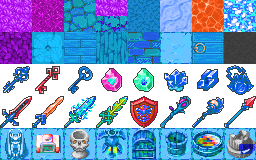
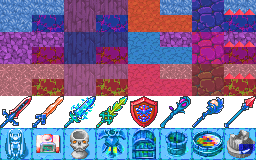
random

diff --git a/GAME1017_Template_W01/PlatformPlayer.cpp b/GAME1017_Template_W01/PlatformPlayer.cpp
@@ -12,7 +12,7 @@
 #include "EventManager.h"
 #include "SoundManager.h"
 
-PlatformPlayer::PlatformPlayer(SDL_Rect s, SDL_FRect d, SDL_Renderer * r, SDL_Texture * t, int sstart, int smin, int smax, int nf)
+PlatformPlayer::PlatformPlayer(SDL_Rect s, SDL_FRect d, SDL_Renderer* r, SDL_Texture* t, int sstart, int smin, int smax, int nf)
 	:Character(s, d, r, t, sstart, smin, smax, nf)
 {
 	m_grounded = true;
@@ -39,39 +39,28 @@ PlatformPlayer::~PlatformPlayer()
 
 void PlatformPlayer::Update()
 {
-	// Check collision
-	if (COMA::PlayerCollisionLeft({ (int)m_dst.x, (int)m_dst.y, (int)96, (int)96 }, -GetAccelX(), 0))
-		m_dst.x -= (int)m_velX;
-	if (COMA::PlayerCollisionRight({ (int)m_dst.x, (int)m_dst.y, (int)96, (int)96 }, GetAccelX(), 0))
-		m_dst.x -= (int)m_velX;
-	if (COMA::PlayerCollisionTop({ (int)m_dst.x, (int)m_dst.y, (int)96, (int)96 }, -GetAccelY(), 0))
-		m_dst.y -= (int)m_velY;
-	 //Do X axis first.
+	//Do X axis first.
 	m_velX += m_accelX;
-	m_velX *= (m_grounded?m_drag:1); 
+	m_velX *= (m_grounded ? m_drag : 1);
 	m_velX = std::min(std::max(m_velX, -(m_maxVelX)), (m_maxVelX));
-	if(!COMA::PlayerCollision(m_dst, m_velX, 0))
+	if (!COMA::PlayerCollision(m_dst, m_velX, 0))
 		m_dst.x += (int)m_velX; // Had to cast it to int to get crisp collision with side of platform.
 	// Now do Y axis.
-	if (!COMA::PlayerCollisionBottom({ (int)m_dst.x, (int)m_dst.y, (int)96, (int)96 }, 0, GetAccelY()))
-	{
-		m_velY += m_accelY + m_grav; // Adjust gravity to get slower jump.
-		m_velY = std::min(std::max(m_velY, -(m_maxVelY)), (m_grav * 5));
+	m_velY += m_accelY + m_grav; // Adjust gravity to get slower jump.
+	m_velY = std::min(std::max(m_velY, -(m_maxVelY)), (m_grav * 5));
+	if (!COMA::PlayerCollision(m_dst, 0, m_velY))
 		m_dst.y += (int)m_velY; // To remove aliasing, I made cast it to an int too.
-	}
-	if (COMA::PlayerCollisionBottom({ (int)m_dst.x, (int)m_dst.y, (int)96, (int)96 }, 0, GetAccelY()))
-	{
-		SetGrounded(true);
-		std::cout << "grounded\n";
-		m_dst.y = (m_dst.y - ((int)(m_dst.y) % 32));
-	}
+	else
+		m_grounded = true;
 
 	m_accelX = m_accelY = 0.0;
 
-	
 
-	if (iCooldown > 0) 
-		{ --iCooldown; }
+
+	if (iCooldown > 0)
+	{
+		--iCooldown;
+	}
 
 	if (m_movehook)
 	{
@@ -95,25 +84,25 @@ void PlatformPlayer::Update()
 	if (EVMA::KeyPressed(SDL_SCANCODE_SPACE) && m_grounded)
 	{
 		SOMA::PlaySound("jump");
-		m_accelY = -JUMPFORCE ; // Sets the jump force.
+		m_accelY = -JUMPFORCE; // Sets the jump force.
 		m_grounded = false;
 	}
 
 	if (EVMA::MousePressed(1))
 	{
-		if (m_hookShot->gethookFixed() == false)  
+		if (m_hookShot->gethookFixed() == false)
 		{
-			m_grapplehook = true; 
+			m_grapplehook = true;
 			setHookshot();
-			m_hookShot->calHookAngle(&m_dst); 
+			m_hookShot->calHookAngle(&m_dst);
 			m_movehook = true;
 		}
 		else
 		{
-			m_grapplehook = false; 
+			m_grapplehook = false;
 			m_hookShot->sethookFixed(false);
 			m_movehook = false;
-			m_hookShot->setlerpCo(0); 
+			m_hookShot->setlerpCo(0);
 			m_grav = GRAV;
 		}
 	}
@@ -146,9 +135,9 @@ void PlatformPlayer::SetY(float y) { m_dst.y = y; }
 double PlatformPlayer::GetX() { return m_dst.x; }
 
 void PlatformPlayer::Render()
-{ 
+{
 	SDL_RenderCopyExF(m_pRend, m_pText, GetSrcP(), GetDstP(), m_angle, 0, SDL_FLIP_NONE);
-	
+
 	if (m_grapplehook)
 	{
 		m_hookShot->Render();

diff --git a/GAME1017_Template_W01/States.cpp b/GAME1017_Template_W01/States.cpp
@@ -25,11 +25,6 @@ void State::Resume() {}
 // Begin GameState.
 GameState::GameState() {}
 
-//SDL_FRect** GameState::getPlatform()
-//{
-//	return m_pPlatforms;
-//}
-
 PlatformPlayer* GameState::getPlayer()
 {
 	return 	m_pPlayer;
@@ -52,6 +47,7 @@ void GameState::Enter()
 	m_pauseBtn = new PauseButton({ 0,0,86,78 }, { 1005.0f,0.0f,21.5f,19.5f }, Engine::Instance().GetRenderer(), TEMA::GetTexture("pause"));
 	for (int i = 0; i < (5); i++)
 		hpUI[i] = new Sprite({ 0,0, 256,256 }, { (float)(35*i),0, 35,35 }, Engine::Instance().GetRenderer(), TEMA::GetTexture("heart"));
+	wigUI = new Sprite({ 0,0, 100,100 }, { (float)(185),0, 35,35 }, Engine::Instance().GetRenderer(), TEMA::GetTexture("wig"));
 	m_pReticle = new Sprite({ 0,0, 36,36 }, { 0,0, 25,25 }, Engine::Instance().GetRenderer(), TEMA::GetTexture("reticle"));
 
 	std::ifstream inFile("Dat/Tiledata.txt");
@@ -192,7 +188,6 @@ void GameState::Render()
 {
 	SDL_SetRenderDrawColor(Engine::Instance().GetRenderer(), 0, 0, 0, 255);
 	SDL_RenderClear(Engine::Instance().GetRenderer());
-	SDL_RenderCopy(Engine::Instance().GetRenderer(), TextureManager::GetTexture("bg"), 0, 0);
 	for (int row = 0; row < ROWS; row++)
 	{
 		for (int col = 0; col < COLS; col++)
@@ -219,6 +214,7 @@ void GameState::Render()
 	for (int i = 0; i < (m_pPlayer->getHealth()/10); i++)
 		hpUI[i]->Render();
 
+	wigUI->Render();
 
 	// If GameState != current state.
 	if (dynamic_cast<GameState*>(STMA::GetStates().back()))

diff --git a/GAME1017_Template_W01/Engine.cpp b/GAME1017_Template_W01/Engine.cpp
@@ -37,7 +37,6 @@ bool Engine::Init(const char* title, int xpos, int ypos, int width, int height, 
 	}
 	else return false; // SDL init fail.
 	m_fps = (Uint32)round((1 / (double)FPS) * 1000); // Sets FPS in milliseconds and rounds.
-	TEMA::RegisterTexture("Img/background.jpg", "bg");
 	TEMA::RegisterTexture("Img/play.png", "play");
 	TEMA::RegisterTexture("Img/exit.png", "exit");
 	TEMA::RegisterTexture("Img/replay.png", "replay");

diff --git a/GAME1017_Template_W01/States.h b/GAME1017_Template_W01/States.h
@@ -36,6 +36,7 @@ private:
 	std::map<char, Tile*> m_tiles;
 
 	Sprite* hpUI[5];
+	Sprite* wigUI;
 
 public:
 	GameState();
